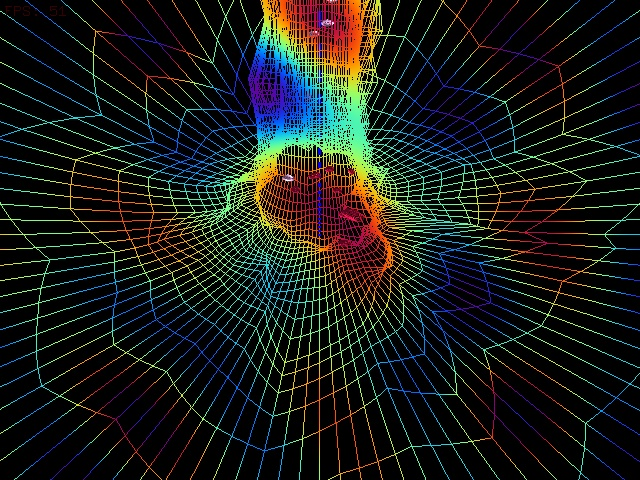
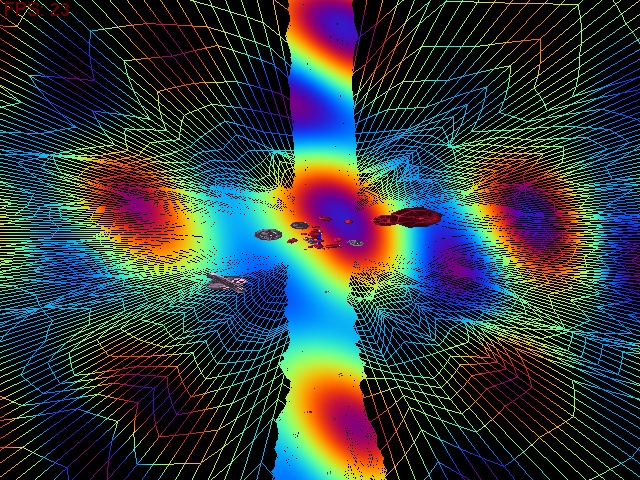
Capturas de pantalla y FPS en verde

diff --git a/assn2-StarterCode-32bit/BloodElement.cpp b/assn2-StarterCode-32bit/BloodElement.cpp
@@ -308,7 +308,8 @@ void BloodElement::generateBuffers(){
 }
 
 void BloodElement::generateTexture(){
-	TextureLoader loader("./Textures/veinTexture.jpg");
+	//TextureLoader loader("./Textures/veinTexture.jpg");
+	TextureLoader loader("./Textures/colores.jpg");
 
 	glGenTextures(1, &textureID);
 	glBindTexture(GL_TEXTURE_2D, textureID);
